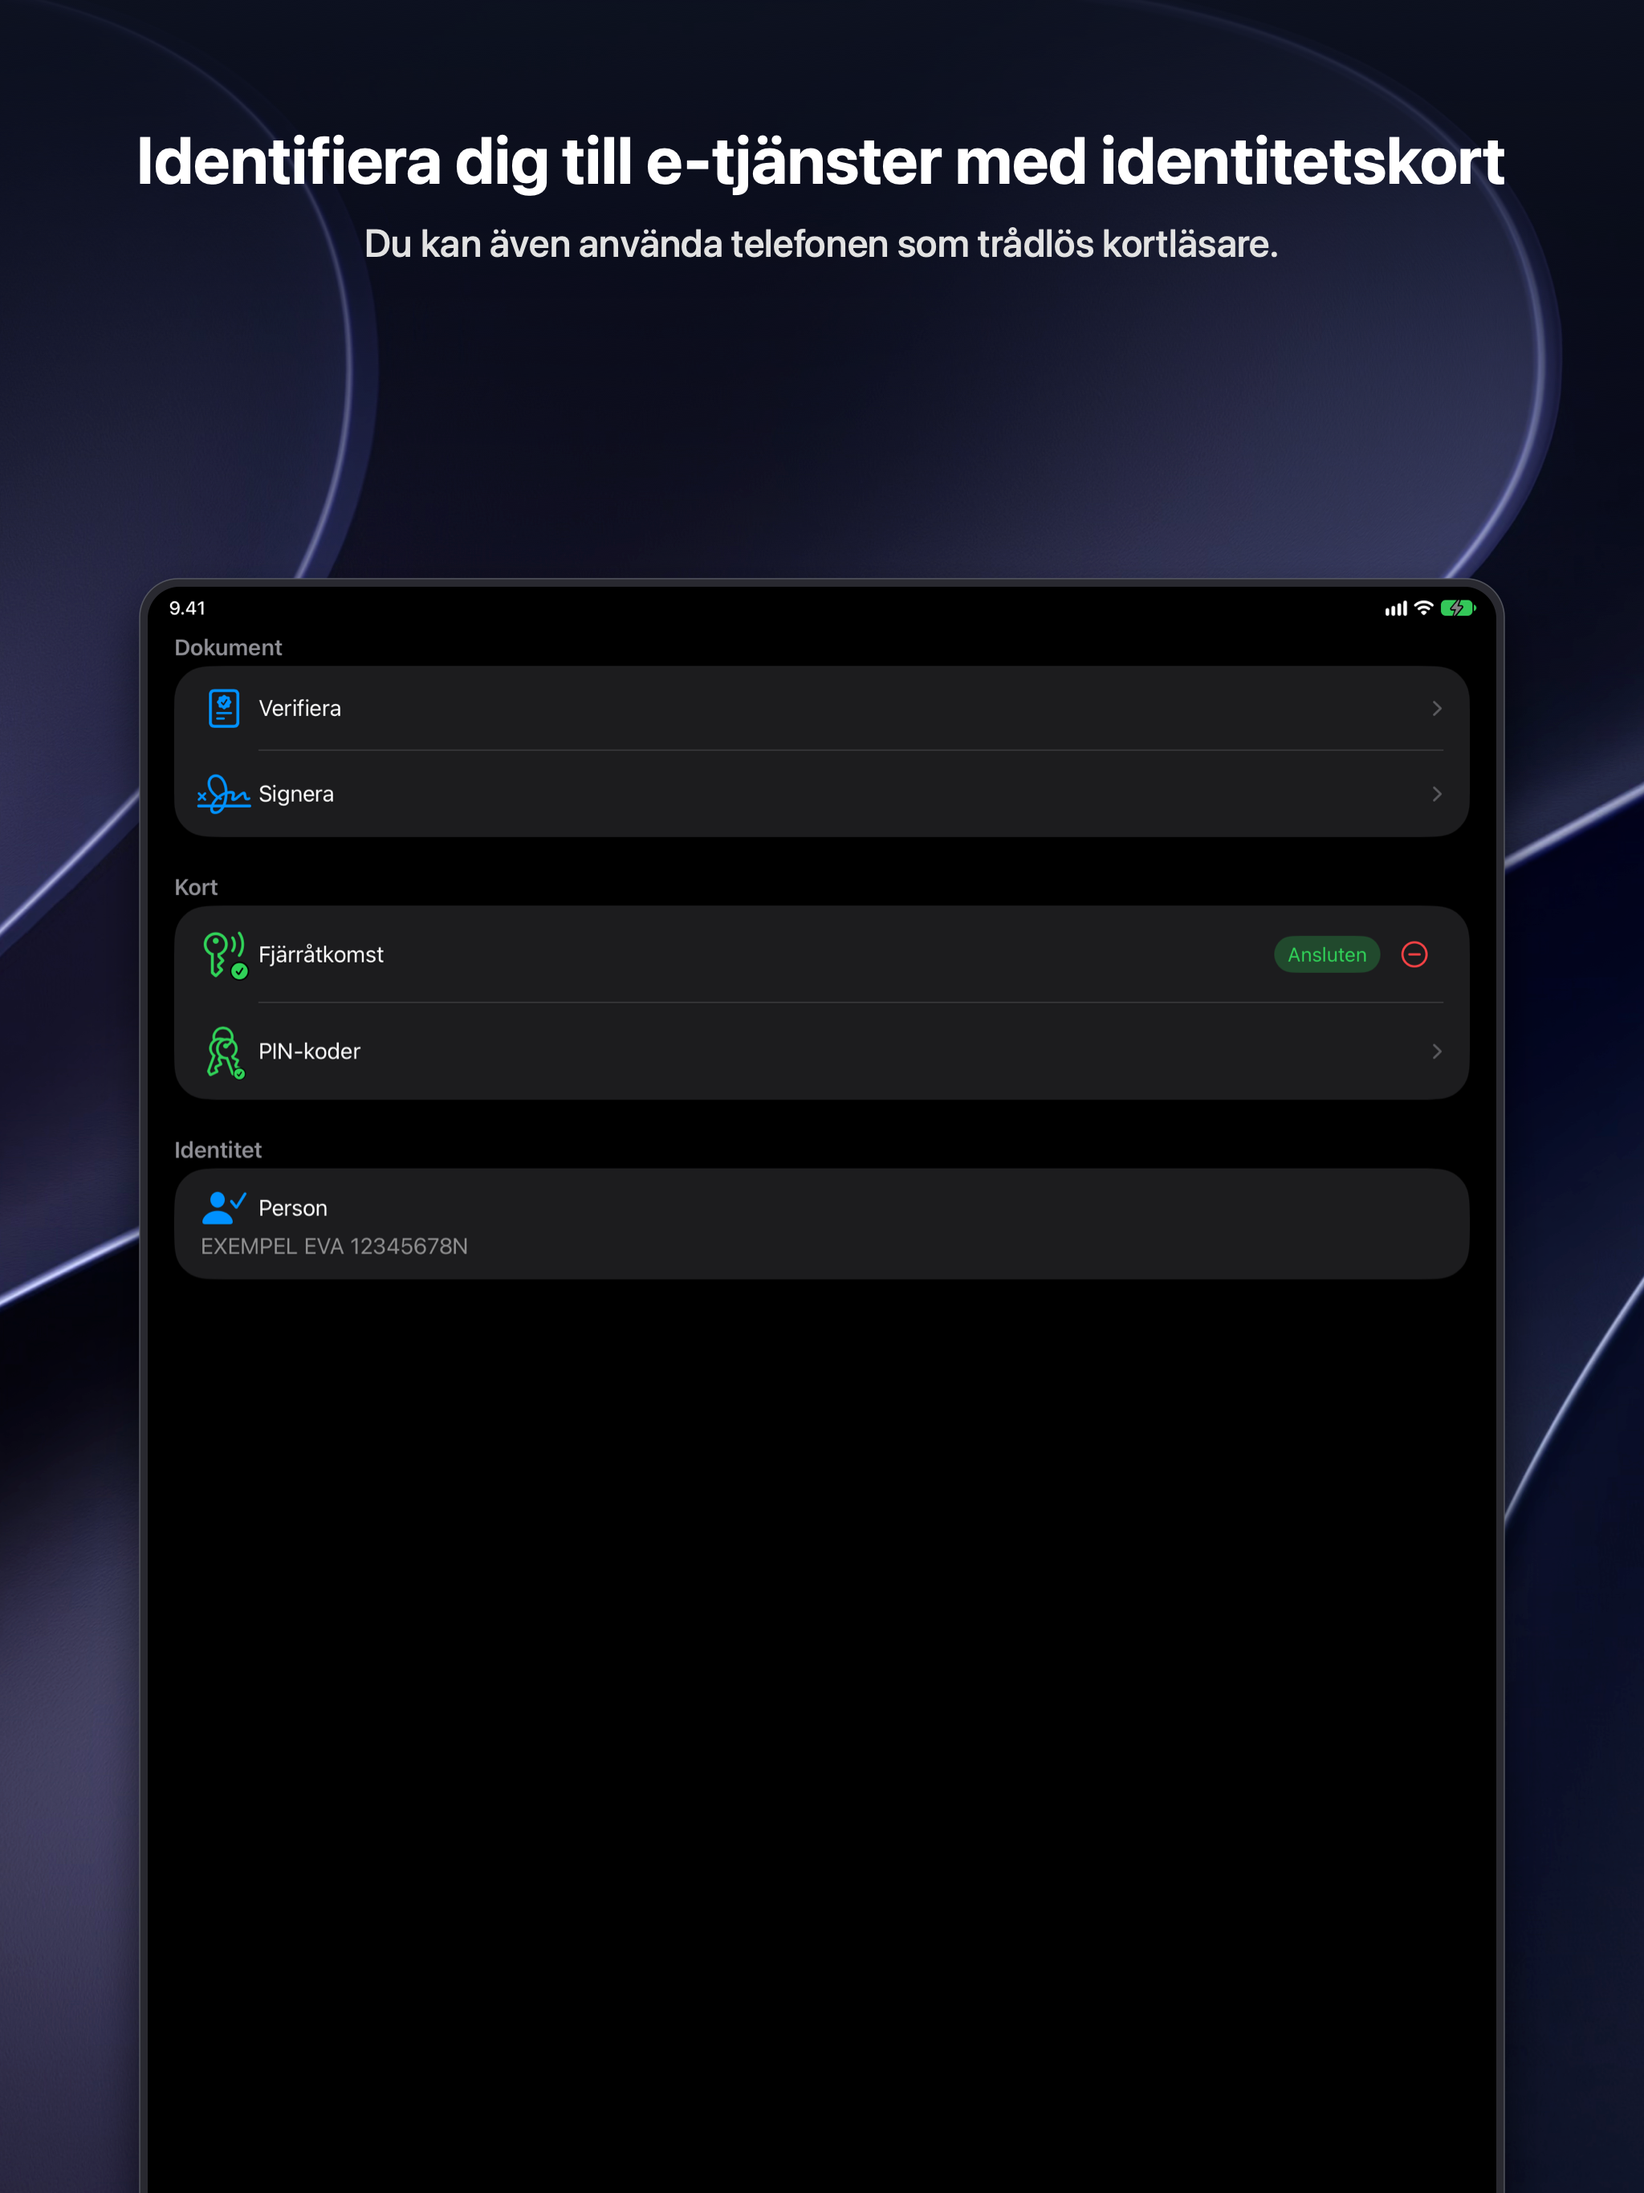
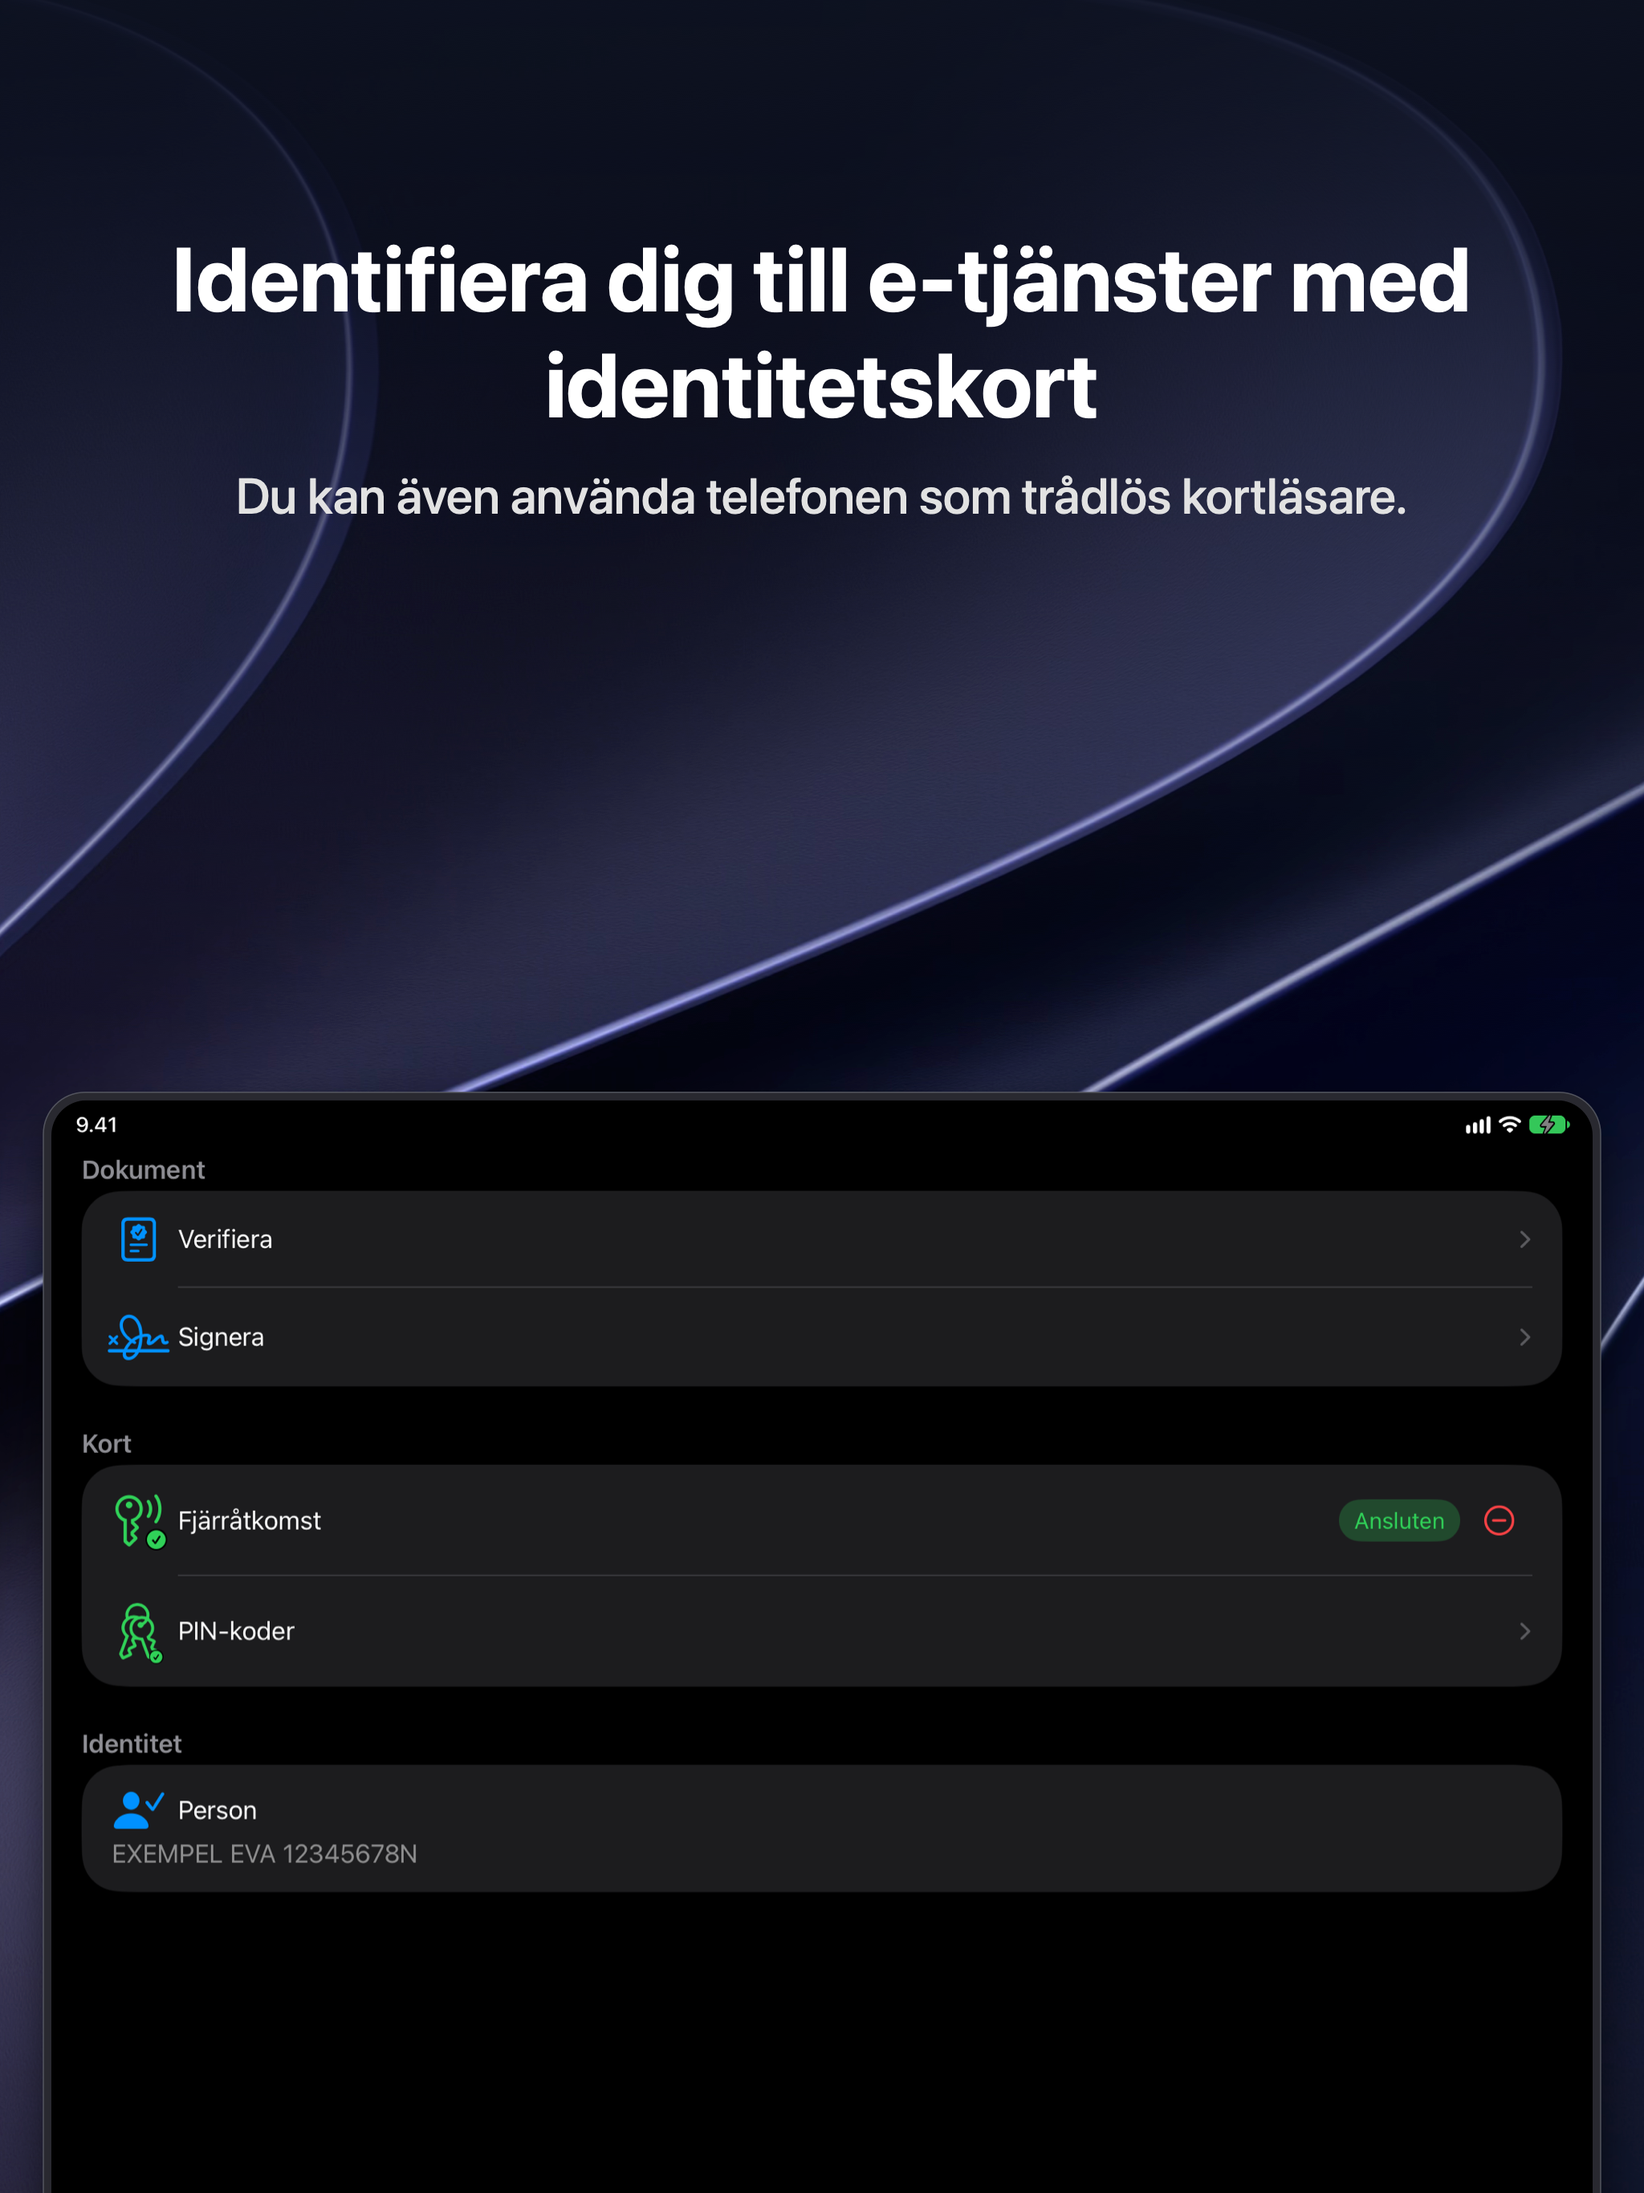
Enlarge titles and crop bottom void in iOS and iPadOS screenshots
Adjust layout geometry in generate-store-screenshots.swift to cut excess
empty black space at the bottom of iPhone and iPad presentation frames,
substantially increasing hero title and subtitle font sizes for higher
visual impact in App Store listings.

diff --git a/Scripts/generate-store-screenshots.swift b/Scripts/generate-store-screenshots.swift
@@ -339,12 +339,12 @@ func renderIOS(locale: String, slide: SlideData) {
         // Dark top veil
         context.saveGState()
         let veilColors = [
-            NSColor(calibratedRed: 0.05, green: 0.06, blue: 0.10, alpha: 0.88).cgColor,
-            NSColor(calibratedRed: 0.05, green: 0.06, blue: 0.10, alpha: 0.45).cgColor,
+            NSColor(calibratedRed: 0.05, green: 0.06, blue: 0.10, alpha: 0.90).cgColor,
+            NSColor(calibratedRed: 0.05, green: 0.06, blue: 0.10, alpha: 0.50).cgColor,
             NSColor(calibratedRed: 0.05, green: 0.06, blue: 0.10, alpha: 0.0).cgColor
         ] as CFArray
-        if let gradient = CGGradient(colorsSpace: colorSpace, colors: veilColors, locations: [0.0, 0.42, 1.0]) {
-            context.drawLinearGradient(gradient, start: CGPoint(x: width / 2, y: height), end: CGPoint(x: width / 2, y: height - 1000), options: [])
+        if let gradient = CGGradient(colorsSpace: colorSpace, colors: veilColors, locations: [0.0, 0.45, 1.0]) {
+            context.drawLinearGradient(gradient, start: CGPoint(x: width / 2, y: height), end: CGPoint(x: width / 2, y: height - 1150), options: [])
         }
         context.restoreGState()
     } else {
@@ -352,11 +352,11 @@ func renderIOS(locale: String, slide: SlideData) {
         context.fill(CGRect(x: 0, y: 0, width: width, height: height))
     }
 
-    var currentTopY = CGFloat(height) - 130
+    var currentTopY = CGFloat(height) - 180
 
     // 2. Title
     let titleLength = slide.title.count
-    let titleFontSize: CGFloat = titleLength > 36 ? 70 : (titleLength > 25 ? 76 : 82)
+    let titleFontSize: CGFloat = titleLength > 36 ? 92 : (titleLength > 25 ? 98 : 106)
     let titleFont = NSFont.systemFont(ofSize: titleFontSize, weight: .bold)
     let titleStyle = NSMutableParagraphStyle()
     titleStyle.alignment = .center
@@ -367,18 +367,18 @@ func renderIOS(locale: String, slide: SlideData) {
         .paragraphStyle: titleStyle
     ]
     let titleBounding = (slide.title as NSString).boundingRect(
-        with: CGSize(width: CGFloat(width - 120), height: 400),
+        with: CGSize(width: CGFloat(width - 100), height: 500),
         options: [.usesLineFragmentOrigin, .usesFontLeading],
         attributes: titleAttr
     )
     let titleHeight = ceil(titleBounding.height)
-    let titleRect = CGRect(x: 60, y: currentTopY - titleHeight, width: CGFloat(width - 120), height: titleHeight)
+    let titleRect = CGRect(x: 50, y: currentTopY - titleHeight, width: CGFloat(width - 100), height: titleHeight)
     (slide.title as NSString).draw(in: titleRect, withAttributes: titleAttr)
-    currentTopY -= (titleHeight + 24)
+    currentTopY -= (titleHeight + 32)
 
     // 3. Subtitle
     let subLength = slide.subtitle.count
-    let subFontSize: CGFloat = subLength > 50 ? 40 : 44
+    let subFontSize: CGFloat = subLength > 50 ? 48 : 52
     let subFont = NSFont.systemFont(ofSize: subFontSize, weight: .medium)
     let subStyle = NSMutableParagraphStyle()
     subStyle.alignment = .center
@@ -389,22 +389,22 @@ func renderIOS(locale: String, slide: SlideData) {
         .paragraphStyle: subStyle
     ]
     let subBounding = (slide.subtitle as NSString).boundingRect(
-        with: CGSize(width: CGFloat(width - 140), height: 250),
+        with: CGSize(width: CGFloat(width - 120), height: 350),
         options: [.usesLineFragmentOrigin, .usesFontLeading],
         attributes: subAttr
     )
     let subHeight = ceil(subBounding.height)
-    let subRect = CGRect(x: 70, y: currentTopY - subHeight, width: CGFloat(width - 140), height: subHeight)
+    let subRect = CGRect(x: 60, y: currentTopY - subHeight, width: CGFloat(width - 120), height: subHeight)
     (slide.subtitle as NSString).draw(in: subRect, withAttributes: subAttr)
 
     // 4. Phone Screen presentation
     let phoneURL = assetsDir.appendingPathComponent(slide.assetName)
     if let phoneImg = NSImage(contentsOf: phoneURL) {
-        let targetWidth: CGFloat = 1040
-        let targetHeight: CGFloat = targetWidth * (2796.0 / 1290.0) // 2254.14
+        let targetWidth: CGFloat = 1180
+        let targetHeight: CGFloat = targetWidth * (2796.0 / 1290.0) // 2557.55
         let phoneX = (CGFloat(width) - targetWidth) / 2
-        let phoneY: CGFloat = -180
-        let cornerRadius: CGFloat = 56.0
+        let phoneY: CGFloat = -780
+        let cornerRadius: CGFloat = 58.0
 
         // Bezel & Ambient Shadow
         context.saveGState()
@@ -485,12 +485,12 @@ func renderIPad(locale: String, slide: SlideData) {
         // Dark top veil
         context.saveGState()
         let veilColors = [
-            NSColor(calibratedRed: 0.05, green: 0.06, blue: 0.10, alpha: 0.88).cgColor,
-            NSColor(calibratedRed: 0.05, green: 0.06, blue: 0.10, alpha: 0.45).cgColor,
+            NSColor(calibratedRed: 0.05, green: 0.06, blue: 0.10, alpha: 0.90).cgColor,
+            NSColor(calibratedRed: 0.05, green: 0.06, blue: 0.10, alpha: 0.50).cgColor,
             NSColor(calibratedRed: 0.05, green: 0.06, blue: 0.10, alpha: 0.0).cgColor
         ] as CFArray
-        if let gradient = CGGradient(colorsSpace: colorSpace, colors: veilColors, locations: [0.0, 0.42, 1.0]) {
-            context.drawLinearGradient(gradient, start: CGPoint(x: width / 2, y: height), end: CGPoint(x: width / 2, y: height - 1000), options: [])
+        if let gradient = CGGradient(colorsSpace: colorSpace, colors: veilColors, locations: [0.0, 0.45, 1.0]) {
+            context.drawLinearGradient(gradient, start: CGPoint(x: width / 2, y: height), end: CGPoint(x: width / 2, y: height - 1300), options: [])
         }
         context.restoreGState()
     } else {
@@ -498,11 +498,11 @@ func renderIPad(locale: String, slide: SlideData) {
         context.fill(CGRect(x: 0, y: 0, width: width, height: height))
     }
 
-    var currentTopY = CGFloat(height) - 150
+    var currentTopY = CGFloat(height) - 280
 
     // 2. Title
     let titleLength = slide.title.count
-    let titleFontSize: CGFloat = titleLength > 45 ? 82 : (titleLength > 30 ? 88 : 94)
+    let titleFontSize: CGFloat = titleLength > 45 ? 112 : (titleLength > 30 ? 122 : 132)
     let titleFont = NSFont.systemFont(ofSize: titleFontSize, weight: .bold)
     let titleStyle = NSMutableParagraphStyle()
     titleStyle.alignment = .center
@@ -513,18 +513,18 @@ func renderIPad(locale: String, slide: SlideData) {
         .paragraphStyle: titleStyle
     ]
     let titleBounding = (slide.title as NSString).boundingRect(
-        with: CGSize(width: CGFloat(width - 160), height: 450),
+        with: CGSize(width: CGFloat(width - 160), height: 550),
         options: [.usesLineFragmentOrigin, .usesFontLeading],
         attributes: titleAttr
     )
     let titleHeight = ceil(titleBounding.height)
     let titleRect = CGRect(x: 80, y: currentTopY - titleHeight, width: CGFloat(width - 160), height: titleHeight)
     (slide.title as NSString).draw(in: titleRect, withAttributes: titleAttr)
-    currentTopY -= (titleHeight + 28)
+    currentTopY -= (titleHeight + 36)
 
     // 3. Subtitle
     let subLength = slide.subtitle.count
-    let subFontSize: CGFloat = subLength > 55 ? 44 : 48
+    let subFontSize: CGFloat = subLength > 55 ? 56 : 62
     let subFont = NSFont.systemFont(ofSize: subFontSize, weight: .medium)
     let subStyle = NSMutableParagraphStyle()
     subStyle.alignment = .center
@@ -535,7 +535,7 @@ func renderIPad(locale: String, slide: SlideData) {
         .paragraphStyle: subStyle
     ]
     let subBounding = (slide.subtitle as NSString).boundingRect(
-        with: CGSize(width: CGFloat(width - 200), height: 300),
+        with: CGSize(width: CGFloat(width - 200), height: 400),
         options: [.usesLineFragmentOrigin, .usesFontLeading],
         attributes: subAttr
     )
@@ -546,11 +546,11 @@ func renderIPad(locale: String, slide: SlideData) {
     // 4. iPad Screen presentation
     let ipadURL = assetsDir.appendingPathComponent(slide.assetName)
     if let ipadImg = NSImage(contentsOf: ipadURL) {
-        let targetWidth: CGFloat = 1680
-        let targetHeight: CGFloat = targetWidth * (2732.0 / 2048.0) // ~2241.09
+        let targetWidth: CGFloat = 1920
+        let targetHeight: CGFloat = targetWidth * (2732.0 / 2048.0) // ~2561.25
         let ipadX = (CGFloat(width) - targetWidth) / 2
-        let ipadY: CGFloat = -240
-        let cornerRadius: CGFloat = 40.0
+        let ipadY: CGFloat = -1200
+        let cornerRadius: CGFloat = 44.0
 
         // Bezel & Ambient Shadow
         context.saveGState()
